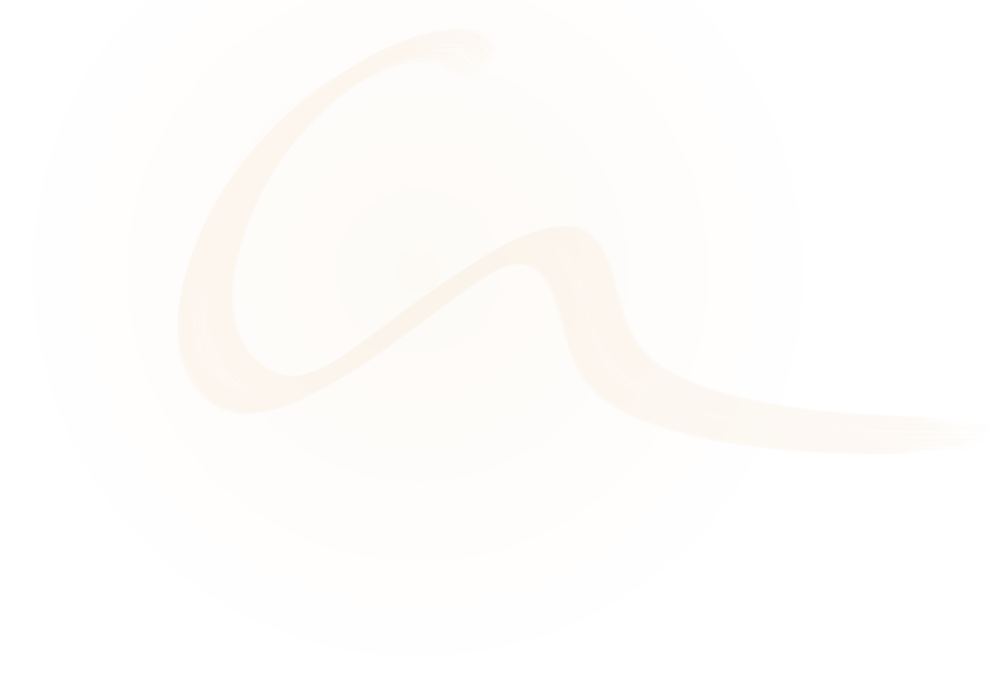
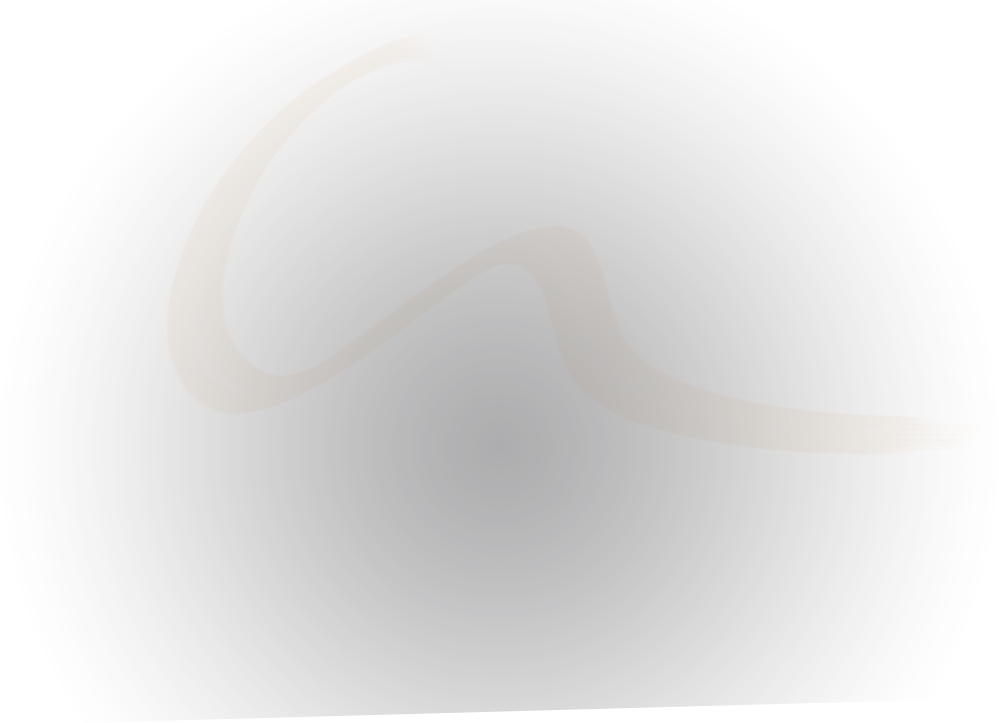
finished remake header for all screens

diff --git a/source/template/common/H_header-bottom.html b/source/template/common/H_header-bottom.html
@@ -4,122 +4,7 @@
 		<div class="header__img">
 			<img class="header__woman" src="./img/header__woman.png" alt="">
 		</div>
-		<div class="header__top">
-			<div class="logo">
-				<div class="logo__sign">
-					<svg version="1.1" id="stick" xmlns="http://www.w3.org/2000/svg" xmlns:xlink="http://www.w3.org/1999/xlink" x="0px" y="0px" viewBox="0 0 50 68.3" style="enable-background:new 0 0 50 68.3;" xml:space="preserve">
-					
-					<path class="st0" d="M11.9,62.8c-0.2-0.1-0.3-0.4-0.4-0.8H1.5c0.7,1.1,1.3,1.8,1.8,2.2h10.3C12.7,63.8,12.1,63.3,11.9,62.8
-	L11.9,62.8z M10.7,59H0.4c0.2,0.7,0.4,1.4,0.8,2.1h10C10.9,60.2,10.8,59.5,10.7,59L10.7,59z M10.5,57.2v-1.1H0c0,0.8,0.1,1.5,0.2,2
-	h10.4C10.6,57.8,10.5,57.5,10.5,57.2L10.5,57.2z M13.2,67.9c1.9,0.2,4,0.3,6.2,0.3c2.3,0,4.3-0.1,6.1-0.3H13.2L13.2,67.9z
-	 M10.5,53.1H0v1.9h10.5V53.1L10.5,53.1z M21.5,65c-0.4,0.1-0.7,0.1-1.1,0.1H18c-0.4,0-0.7,0-1.1-0.1H4.3c0.7,0.4,1.3,0.8,1.6,0.9
-	c0.8,0.4,1.8,0.8,2.9,1.2h21.1c1.4-0.4,2.4-0.8,2.9-1.1c0.6-0.3,1.1-0.6,1.5-1H21.5L21.5,65z M10.5,50.2H0v1.8h10.5V50.2L10.5,50.2z
-	 M10.5,47.3H0V49h10.5V47.3L10.5,47.3z M10.5,44.2H0V46h10.5V44.2L10.5,44.2z M10.5,41.3H0V43h10.5V41.3L10.5,41.3z M0.4,38.4
-	c-0.2,0.8-0.3,1.3-0.3,1.6h10.4c0.1-0.2,0.1-0.4,0.1-0.8c0-0.4,0-0.6,0.1-0.8H0.4L0.4,38.4z M27.3,62c-0.2,0.3-0.4,0.6-0.4,0.8
-	c-0.4,0.6-1,1-1.8,1.4h10.3c0.7-0.5,1.2-1.2,1.7-2.2H27.3L27.3,62z M1.3,35.4l-0.6,1.5h10.2c0.2-0.7,0.3-1.2,0.4-1.5H1.3L1.3,35.4z
-	 M28,59c-0.1,0.7-0.2,1.4-0.4,2.1h9.9l0.4-1c0.1-0.3,0.2-0.7,0.4-1.1H28L28,59z M28,56.1v1.1c0,0.3,0,0.6-0.1,0.9h10.4
-	c0.1-0.6,0.1-1.2,0.3-2H28L28,56.1z M3.6,32.5c-0.4,0.3-0.8,0.8-1.3,1.4H12c0.3-0.6,1.2-1,2.7-1.4H3.6L3.6,32.5z M38.7,53.1H28v1.9
-	h10.6V53.1L38.7,53.1z M38.7,50.2H28v1.8h10.6V50.2L38.7,50.2z M38.7,47.3H28V49h10.6V47.3L38.7,47.3z M38.7,44.2H28V46h10.6V44.2
-	L38.7,44.2z M38.7,41.3H28V43h10.6V41.3L38.7,41.3z M38.7,29.6H9.6c-1.3,0.3-2.5,0.8-3.7,1.3h32.8V29.6L38.7,29.6z M38.7,38.4H27.9
-	c0.1,0.3,0.1,0.6,0.1,0.8V40h10.7V38.4L38.7,38.4z M38.7,35.4H27.3c0.2,0.7,0.3,1.2,0.4,1.5h11V35.4L38.7,35.4z M38.7,32.5H23.8
-	c1.1,0.3,1.9,0.6,2.4,1c0.1,0.1,0.2,0.3,0.4,0.4h12.1V32.5L38.7,32.5z M38.7,26.5H28v1.3h10.6V26.5L38.7,26.5z M38.7,23.6H28v1.3
-	h10.6V23.6L38.7,23.6z M38.7,20.7H28v1.2h10.6V20.7L38.7,20.7z M38.7,17.7H28v1.1h10.6V17.7L38.7,17.7z M38.7,14.8H28v1h10.6V14.8
-	L38.7,14.8z M38.7,11.8H28v1h10.6V11.8L38.7,11.8z M38.7,8.8H28v1h10.6V8.8L38.7,8.8z M38.7,5.9H28v0.9h10.6V5.9L38.7,5.9z
-	 M38.7,2.9H28v0.8h10.6V2.9L38.7,2.9z M37.6,0h-8.5c-0.4,0.3-0.6,0.6-0.7,0.8h9.8C38,0.4,37.8,0.2,37.6,0z"/>
-					</svg>
-				</div>
-				<div class="logo__text">
-					<div class="logo__name">
-						<svg version="1.1" id="stick" xmlns="http://www.w3.org/2000/svg" xmlns:xlink="http://www.w3.org/1999/xlink" x="0px" y="0px" viewBox="0 0 56.2 10.3" style="enable-background:new 0 0 56.2 10.3;" xml:space="preserve">
-						
-						<path class="st0" d="M5.6,6c0-0.6-0.2-1.2-0.6-1.6C4.6,3.9,4,3.7,3.3,3.7C2.5,3.7,1.9,4,1.4,4.5C0.9,5.1,0.7,5.8,0.7,6.8
-							c0,0.9,0.2,1.7,0.7,2.2c0.4,0.5,1,0.8,1.7,0.8C3.9,9.7,4.5,9.5,5,9c0.4-0.5,0.7-1.1,0.7-1.8V6L5.6,6z M5.6,10.1V8.9h0
-							c-0.2,0.4-0.6,0.8-1,1c-0.5,0.3-1,0.4-1.6,0.4c-0.9,0-1.6-0.3-2.2-0.9C0.3,8.8,0,7.9,0,6.8c0-1.1,0.3-2,0.9-2.7c0.6-0.7,1.4-1,2.4-1
-							c1.1,0,1.8,0.4,2.3,1.3h0V0h0.6v10.1H5.6z"/>
-						<path class="st0" d="M10.8,3.7c-0.8,0-1.5,0.3-2,0.8C8.3,5,8,5.8,8,6.8c0,0.9,0.2,1.6,0.7,2.2c0.5,0.5,1.2,0.8,2,0.8
-							c0.9,0,1.5-0.3,2-0.8c0.5-0.5,0.7-1.3,0.7-2.2c0-1-0.2-1.7-0.7-2.2C12.3,3.9,11.6,3.7,10.8,3.7L10.8,3.7z M10.7,10.3
-							c-1,0-1.9-0.3-2.5-1C7.6,8.6,7.3,7.8,7.3,6.7c0-1.1,0.3-2,1-2.7c0.6-0.6,1.5-1,2.5-1c1,0,1.8,0.3,2.4,1c0.6,0.6,0.9,1.5,0.9,2.6
-							c0,1.1-0.3,1.9-0.9,2.6C12.6,10,11.8,10.3,10.7,10.3z"/>
-						<path class="st0" d="M24.2,10.1V6c0-0.9-0.1-1.5-0.4-1.8c-0.3-0.3-0.7-0.5-1.3-0.5c-0.6,0-1.1,0.2-1.5,0.7c-0.4,0.5-0.6,1-0.6,1.7v4
-							h-0.6V6c0-1.5-0.6-2.3-1.8-2.3c-0.6,0-1.1,0.2-1.5,0.7c-0.4,0.5-0.6,1.1-0.6,1.8v3.9h-0.6V3.3h0.6v1.1h0c0.5-0.9,1.2-1.3,2.2-1.3
-							c0.5,0,1,0.1,1.3,0.4c0.4,0.3,0.6,0.7,0.8,1.1c0.2-0.5,0.5-0.9,1-1.2c0.4-0.3,0.9-0.4,1.4-0.4c1.6,0,2.4,0.9,2.4,2.8v4.2H24.2z"/>
-						<path class="st0" d="M26.3,3.3H27v6.8h-0.6V3.3L26.3,3.3z M26.6,1.6c-0.1,0-0.3,0-0.4-0.1c-0.1-0.1-0.2-0.2-0.2-0.4
-							c0-0.1,0.1-0.3,0.2-0.4c0.1-0.1,0.2-0.1,0.4-0.1c0.1,0,0.3,0,0.4,0.1c0.1,0.1,0.2,0.2,0.2,0.4c0,0.1-0.1,0.3-0.2,0.4
-							C26.9,1.5,26.8,1.6,26.6,1.6z"/>
-						<path class="st0" d="M33.4,10.1v-4c0-1.6-0.6-2.5-1.9-2.5c-0.7,0-1.3,0.2-1.7,0.7c-0.4,0.5-0.7,1.1-0.7,1.8v3.9h-0.6V3.3h0.6v1.2h0
-							c0.5-0.9,1.3-1.4,2.5-1.4c0.8,0,1.4,0.2,1.8,0.7C33.9,4.3,34.1,5,34.1,6v4.2H33.4z"/>
-						<path class="st0" d="M37.8,6.7c-0.8,0.1-1.3,0.3-1.6,0.5c-0.3,0.2-0.5,0.6-0.5,1.1c0,0.4,0.1,0.7,0.4,1c0.3,0.3,0.7,0.4,1.2,0.4
-							c0.7,0,1.3-0.2,1.7-0.7c0.5-0.5,0.7-1.1,0.7-1.9V6.4L37.8,6.7L37.8,6.7z M39.8,10.1V8.8h0c-0.2,0.5-0.6,0.8-1,1.1
-							c-0.4,0.3-0.9,0.4-1.5,0.4c-0.7,0-1.2-0.2-1.6-0.5c-0.4-0.4-0.6-0.8-0.6-1.4c0-1.2,0.8-1.9,2.5-2.2l2.2-0.3c0-1.5-0.6-2.2-1.7-2.2
-							c-0.8,0-1.6,0.3-2.3,0.9V3.8c0.3-0.2,0.6-0.4,1.1-0.5c0.5-0.1,0.9-0.2,1.3-0.2c0.7,0,1.3,0.2,1.7,0.7c0.4,0.4,0.6,1.1,0.6,1.9v4.4
-							H39.8z"/>
-						<path class="st0" d="M44.8,10c-0.3,0.2-0.7,0.2-0.9,0.2c-1.1,0-1.6-0.6-1.6-1.8V3.8h-1.3V3.3h1.3V1.5c0.1,0,0.2-0.1,0.3-0.1
-							c0.1,0,0.2-0.1,0.3-0.1v2h1.9v0.6h-1.9v4.5c0,0.5,0.1,0.8,0.2,1c0.2,0.2,0.4,0.3,0.8,0.3c0.3,0,0.6-0.1,0.9-0.2V10z"/>
-						<path class="st0" d="M48.4,3.7c-0.8,0-1.5,0.3-2,0.8c-0.5,0.5-0.8,1.3-0.8,2.3c0,0.9,0.2,1.6,0.7,2.2c0.5,0.5,1.2,0.8,2,0.8
-							c0.9,0,1.5-0.3,2-0.8c0.5-0.5,0.7-1.3,0.7-2.2c0-1-0.2-1.7-0.7-2.2C49.9,3.9,49.3,3.7,48.4,3.7L48.4,3.7z M48.4,10.3
-							c-1,0-1.9-0.3-2.5-1C45.3,8.6,45,7.8,45,6.7c0-1.1,0.3-2,1-2.7c0.6-0.6,1.5-1,2.5-1c1,0,1.8,0.3,2.4,1c0.6,0.6,0.9,1.5,0.9,2.6
-							c0,1.1-0.3,1.9-0.9,2.6C50.2,10,49.4,10.3,48.4,10.3z"/>
-						<path class="st0" d="M56.2,3.9c-0.2-0.1-0.5-0.2-0.8-0.2c-0.6,0-1,0.3-1.4,0.8c-0.4,0.6-0.6,1.3-0.6,2.4v3.2h-0.6V3.3h0.6v1.5h0
-							c0.2-0.5,0.4-0.9,0.8-1.2c0.4-0.3,0.8-0.4,1.2-0.4c0.3,0,0.5,0,0.7,0.1V3.9z"/>
-						</svg>
-					</div>
-					<div class="logo__desc">твое явное преимущество</div>
-				</div>
-			</div>
-			<nav class="nav">
-				<ul class="nav__list">
-					<li class="nav__item nav__item--1">
-						<div class="nav__icon nav__icon--1">
-							<svg version="1.1" id="Слой_1" xmlns="http://www.w3.org/2000/svg" xmlns:xlink="http://www.w3.org/1999/xlink" x="0px" y="0px"
-	 viewBox="0 0 2244 1856" style="enable-background:new 0 0 2244 1856;" xml:space="preserve">
-
-<path class="st0" d="M2081.3,0c0,0-1366,0-1549.3,0C430,7.3,380.7,80.3,372,156.7c0,0,0,890-1.3,989.3
-	c8.7,91.3,54.8,152.5,158,168.7l1072.4,0.9c0,0,181.6,187.1,239.3,246.8c49.9,41.4,92.2-9.1,89-38.7l0.3-210.7c0,0,27.7,1,150.3,0.3
-	c115.7-4,162.3-100.3,164-168c0,0,0-860.7,0-979.7C2235,46,2148.7,4,2081.3,0z M774.7,838C689.2,838,620,768,620,681.7
-	s69.2-156.3,154.7-156.3s154.7,70,154.7,156.3S860.1,838,774.7,838z M1314.7,838c-85.4,0-154.7-70-154.7-156.3
-	s69.2-156.3,154.7-156.3c85.4,0,154.7,70,154.7,156.3S1400.1,838,1314.7,838z M1853.8,838c-85.4,0-154.7-70-154.7-156.3
-	s69.2-156.3,154.7-156.3c85.4,0,154.7,70,154.7,156.3S1939.2,838,1853.8,838z"/>
-<path class="st1" d="M205,1682c-64.5,0.5-108.5,0-108.5,0c-22.7-3-89-20.5-96.5-106.5c0-137,0-655,0-655
-	c5.8-46.5,34.2-99,105.5-104.5c76.5,0.5,172,0,172,0v350c12.5,127.7,98.8,238,251.8,248.7c209.3-0.7,700-0.7,700-0.7v168.7
-	c0,38.3-37.7,105-119.7,102c-119.7-0.3-688.3,0-688.3,0C309.3,1800,262,1848.2,262,1848.2c-15.1,12.6-48.9,11.5-56.5-22.8
-	C205.5,1765.5,205,1682,205,1682z"/>
-</svg>
-						</div>
-						<a href="#reviews">Отзывы</a>
-					</li>
-					<li class="nav__item nav__item--2">
-						<div class="nav__icon nav__icon--2">
-							<svg version="1.1" id="Слой_1" xmlns="http://www.w3.org/2000/svg" xmlns:xlink="http://www.w3.org/1999/xlink" x="0px" y="0px"
-	 viewBox="0 0 1508 1583" style="enable-background:new 0 0 1508 1583;" xml:space="preserve">
-
-
-<path class="st0" d="M440.3,812.5c-14-13.3-43.3-36-55.5-42.3c-13.6-4.9-24.3-15.8-15.3-33.8c15.3-19.2,87.6-112.9,87.6-112.9
-	l106.8,69.8l-15.9,27.3l-73.7,95.3C464.6,824,451.3,824.7,440.3,812.5z"/>
-<path class="st1" d="M839.8,733.8l55,103.3l91,169.5c3.9,9.3,16.8,15,28.3,9c17-10.5,50.3-30.8,80.8-41.3c8.4-4.1,13-14.2,8.5-27.8
-	c-20.8-37.5-163.9-305.8-163.9-305.8L839.8,733.8z"/>
-<ellipse class="st2" cx="725.5" cy="382.2" rx="392.5" ry="382.2"/>
-<ellipse class="st2" cx="234.6" cy="1021.9" rx="232.1" ry="226.1"/>
-<ellipse class="st2" cx="1218.7" cy="1300.5" rx="289.3" ry="282.5"/>
-</svg>
-						</div>
-						<a href="#components">Состав</a>
-					</li>
-					<li class="nav__item nav__item--3">
-						<div class="nav__icon nav__icon--3">
-							<svg version="1.1" id="Слой_1" xmlns="http://www.w3.org/2000/svg" xmlns:xlink="http://www.w3.org/1999/xlink" x="0px" y="0px"
-	 viewBox="0 0 1690 1944" style="enable-background:new 0 0 1690 1944;" xml:space="preserve">
-
-<polygon class="st0" points="44,465.5 842,0 1139.7,174.5 342.7,640.2 "/>
-<polygon class="st0" points="1295.1,267.5 1638.9,465.5 841.8,930.8 498.3,732.6 "/>
-<polygon class="st0" points="0,590 294.5,761.3 294.5,991.8 437,1066 437,845.8 770.8,1039.5 771,1938.8 0,1489.3 "/>
-<polygon class="st0" points="914.5,1037.5 1690,584.5 1690,1491 914.5,1944 "/>
-</svg>
-						</div>
-						<a href="#order">Оплата <br>и доставка</a>
-					</li>
-				</ul>
-			</nav>
-		</div>
+		
 		<div class="header__content">
 			<div class="header__about">
 				<h1 class="header__title">

diff --git a/source/style/common/A_header.scss b/source/style/common/A_header.scss
@@ -3,7 +3,7 @@
 	
 	background-image: url(../img/bg-sign.png), url(../img/header__bg.jpg);
 	background-repeat: no-repeat;
-	background-position: 55% -2%, 49% -24px;
+	background-position: 59% 12%, 49% -24px;
 	margin-bottom: 40px;
 	// margin-bottom: 300px;
 	position: relative;
@@ -128,7 +128,7 @@
 	&__content {
 		display: flex;
 		justify-content: space-between;
-		padding-bottom: 167px;
+		padding-bottom: 247px;
 	}
 	&__title {
 		font-size: 65px;
@@ -206,10 +206,10 @@
 		}
 	}
 	&__prod {
-		position: relative;
-	    top: 173px;
-    	left: 19px;
-    	width: 300px;
+		position: absolute;
+        bottom:-30px;
+	    right: calc(50% - 77px);
+	    width: 283px;
     	align-self: flex-start;
     	z-index: 2;
     	img {
@@ -220,18 +220,18 @@
 	&__img {
 		overflow: hidden;
   	height: 830px;
-    width: 899px;
+    width: 540px;
     position: absolute;
-    top: -99px;
-    left: calc(50% + 22px);
+    bottom: 53px;
+    left: calc(50% + 80px);
 	transform: translateX(-50%);
 	z-index: -1;
 	}
 	&__woman {
 		height: auto;
-	    width: 899px;
+	    width: 401px;
 	    position: absolute;
-	    
+	    bottom: -43px;
 	    left: 50%;
 		transform: translateX(-50%);
 		z-index: -1;
@@ -243,6 +243,7 @@
 
 @media screen and (max-width: 1190px){
   .header {
+  	background-position: calc(50% + 100px) 12%, 49% -24px;
   	&.block {
   		padding-top: 0;
   	}
@@ -284,15 +285,16 @@
   	}
   	&__prod {
 		width: 250px;
-		top: 124px;
+		bottom: 0;
   	}
   	&__img {
 		height: 640px;
-		width: 700px;
-		top: -63px;
+		width: 300px;
+		bottom: 50px;
   	}
   	&__woman {
   		max-width: 100%;
+  		bottom: 0;
   	}
   }
 }

diff --git a/source/style/common/H_header-bottom.scss b/source/style/common/H_header-bottom.scss
@@ -1,6 +1,6 @@
 section.header {
 	padding-bottom: 100px;
-	padding-top: 63px;
+	padding-top: 134px;
 	background-position: 55% 45%, 49% -24px;
 	.before {
 		 width: 110%;
@@ -46,16 +46,16 @@ section.header {
     transform: rotate(1.1deg);
   }
   .header__content {
-  	padding-bottom: 15px;
+  	padding-bottom: 64px;
   }
   .header__img {
   	overflow: hidden;
   	height: 774px;
-    width: 899px;
+    width: 400px;
     position: absolute;
-    top: 19px;
-    left: calc(50% + 22px);
-	z-index: -1;
+    bottom: 12px;
+    left: calc(50% + 79px);
+	 z-index: -1;
   }
   .header__woman {
   	position: absolute;
@@ -95,14 +95,18 @@ section.header {
 
   section.header {
   	&.block {
-  		padding-top: 40px;
+  		padding-top: 75px;
   	}
   	.header__img {
   		width: 820px;
-  		top: -25px;
+  		bottom: 50px;
   	}
+    .header__woman {
+      width: 300px;
+      bottom: 0;
+    }
   	.header__prod {
-  		top: 200px;
+  		
   	}
   }
 }
